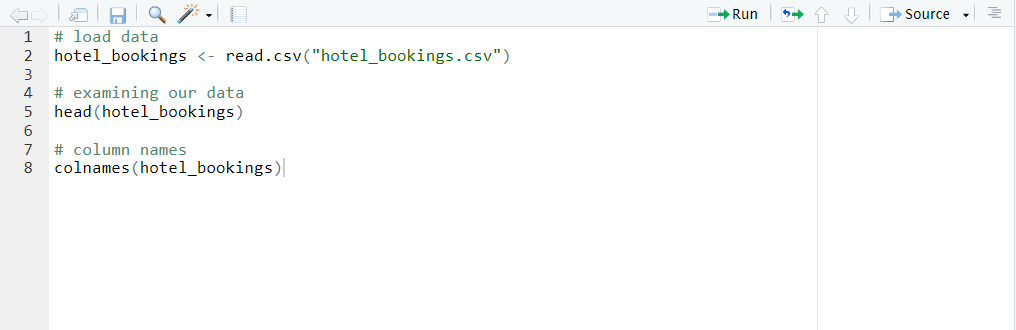
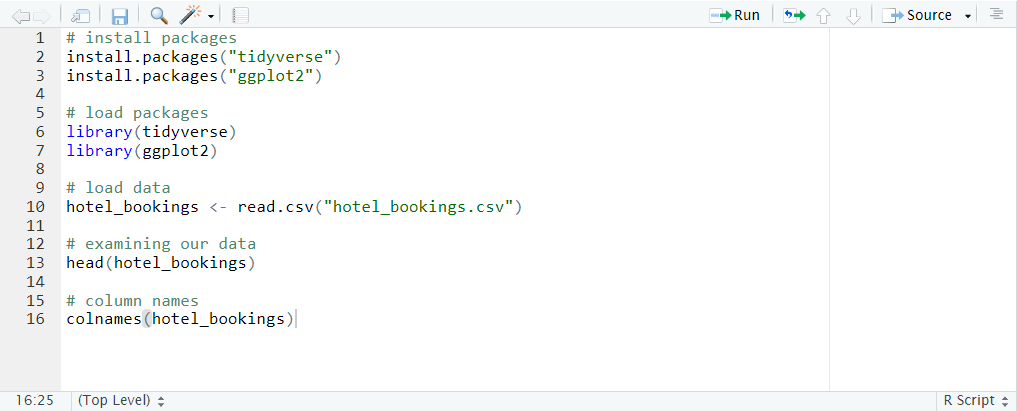
update hotel booking file

diff --git a/hotel_booking.md b/hotel_booking.md
@@ -3,7 +3,7 @@
 > ## Content
 This data describes a dataset with hotel demand data, which contains 31 variables and 79,330 observations for City Hotel and 40,060 observations for Resort Hotel. Each observation represents a hotel booking between the 1st of July 2015 and the 31st of August 2017.
 
-> ### I downloaded the dataset from "Kaggle.com": [Click here](https://www.kaggle.com/datasets/mojtaba142/hotel-booking)
+> ### We downloaded the dataset from "Kaggle.com": [Click here](https://www.kaggle.com/datasets/mojtaba142/hotel-booking)
 
 ### We have exploded the dataset by using Pandas-Profiling and investigated, cleaned, and manipulated the data.
 
@@ -24,8 +24,20 @@ First of all, we will install the packages which we need for our analyses, then 
 
 ![](images/image-1.png)
 
-![](images/image-2.png) ![](images/image-3.png)
+We look at a sample of our data.
+![](images/image-2.png) 
+![](images/image-3.png)
 
+We look at column names.
 ![](images/image-4.png)
+
+
+> ### Answering first question
+
+So to answer the first question which is **Do people with children have to book in advance**, we will create a visualization to see how true that statement is or isn't.
+
+The two columns that we should plot to find the answer to this question are **lead_time** as the x-axis and **children** as the y-axis.
+
+`ggplot(data = hotel_bookings) + geom_point(mapping = aes(x=lead_time, y=children))`
 
 
